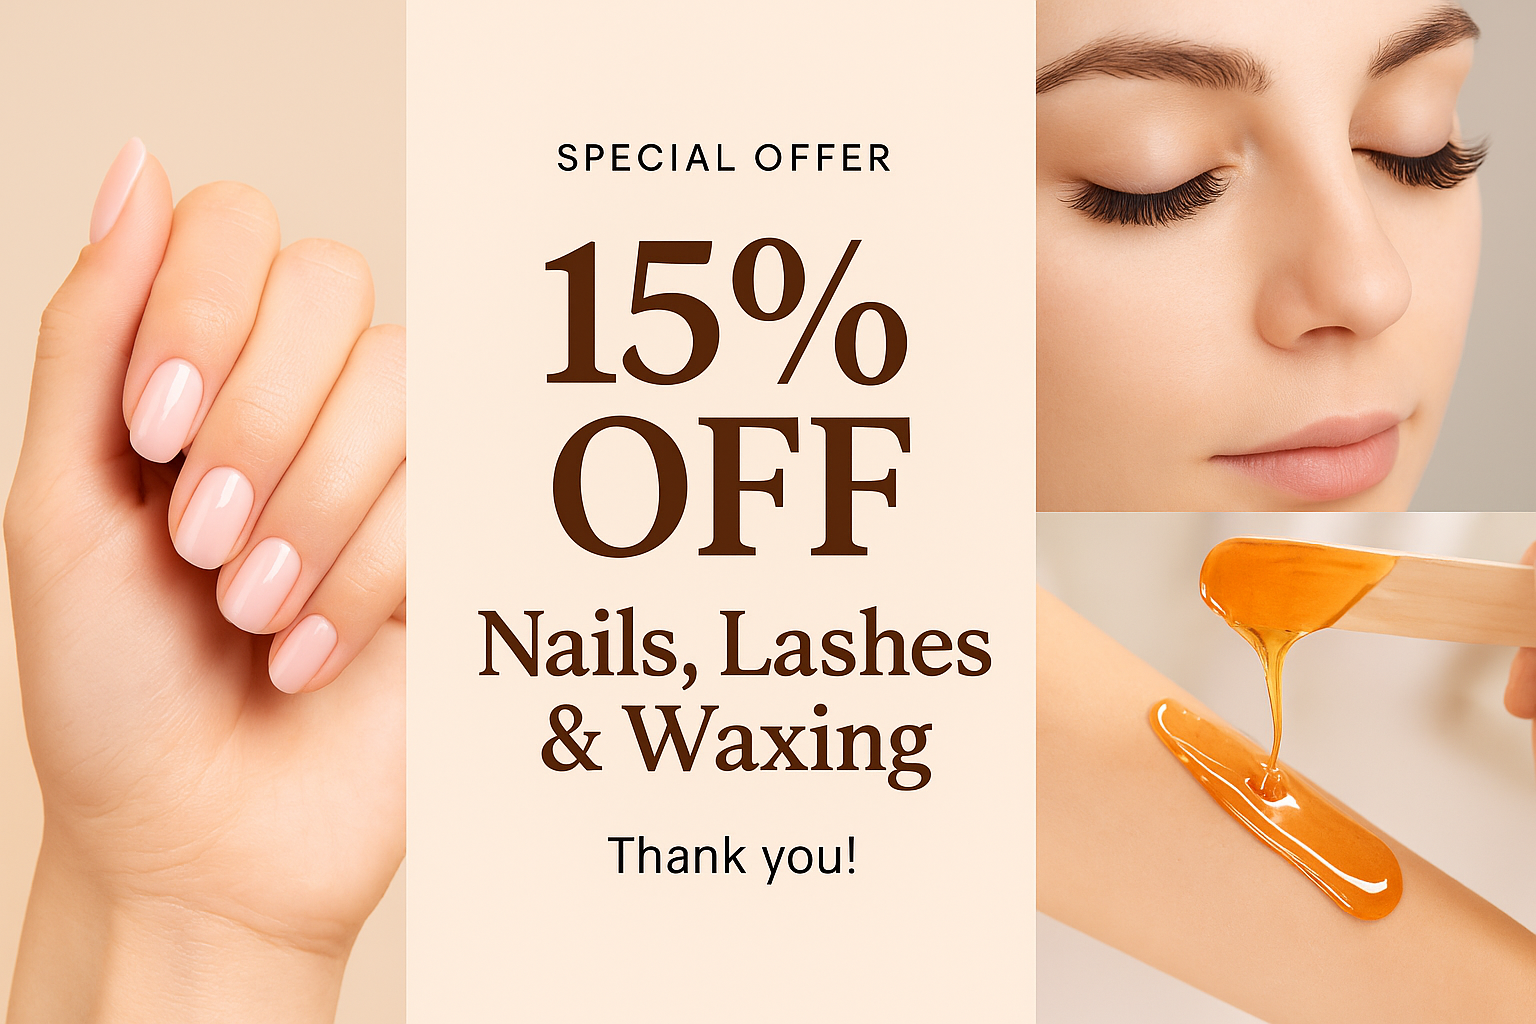
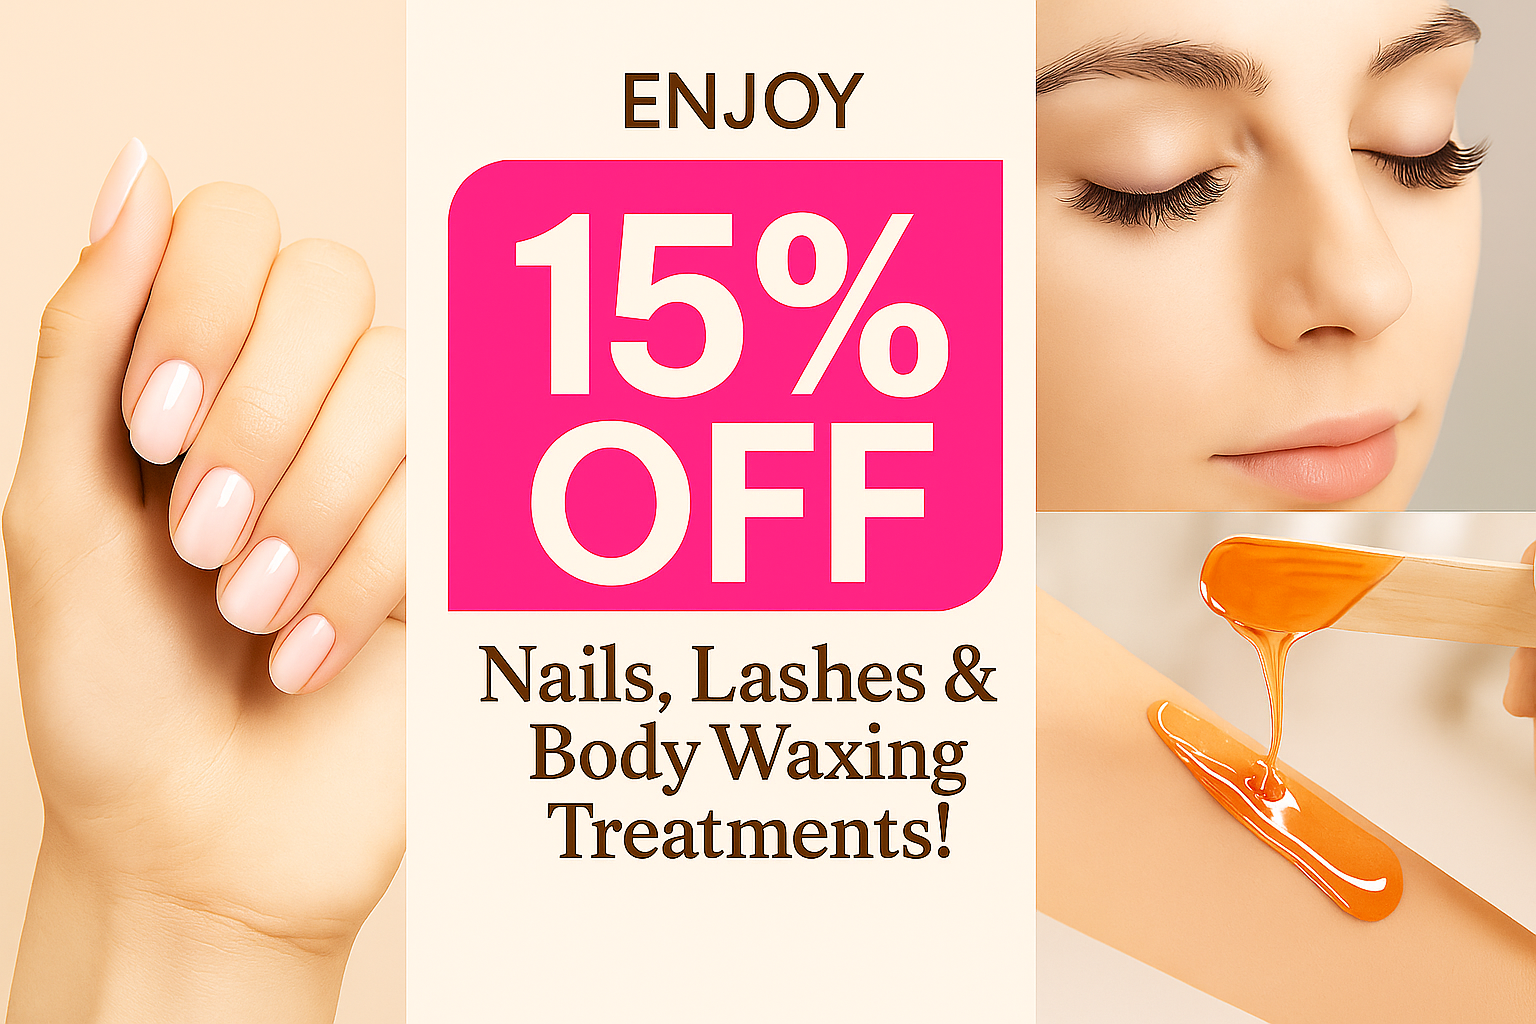
final01

diff --git a/index.html b/index.html
@@ -161,18 +161,26 @@
     </button>
 
     <!-- Offer Popup Modal -->
-<div class="modal fade" id="offerModal" tabindex="-1" aria-labelledby="offerModalLabel" aria-hidden="true">
-  <div class="modal-dialog modal-dialog-centered">
-    <div class="modal-content text-center p-4">
-      <div class="modal-body">
-        <h5 class="mb-3">Special Offer 🎉</h5>
-        <img src="assets/images/offer-popup.png" class="img-fluid" alt="">
-        <!-- <p class="mb-4">We’re offering <strong>15% off</strong> on nails, lashes, and waxing. <br>Thank you!</p> -->
-        <button type="button" class="btn btn-dark w-100" data-bs-dismiss="modal">ok got it</button>
-      </div>
-    </div>
-  </div>
-</div>
+        <div class="modal fade" id="offerModal" tabindex="-1" aria-labelledby="offerModalLabel" aria-hidden="true">
+          <div class="modal-dialog modal-dialog-centered">
+            <div class="modal-content text-center ">
+              <div class="modal-body">
+                <h5 class="mb-3">Special Offer 🎉</h5>
+                <img src="assets/images/offer-popup.png" class="img-fluid" alt="">
+
+                <!-- Scrolling text container -->
+                <div class="scrolling-banner mt-4">
+                  <p class="scroll-text">
+                    Enjoy 50% off on all nails, lashes and body waxing treatments! 
+                    Limited time only 💅✨
+                  </p>
+                </div>
+              </div>
+            </div>
+          </div>
+        </div>
+
+
 
 
         <!-- Banner section -->
@@ -727,7 +735,7 @@
               <li><a href="https://www.facebook.com/share/1Es5kmJ42a/"><i class="ph ph-facebook-logo"></i></a></li>
               <li><a href="https://www.instagram.com/bestlookbeautysalon?igsh=c3p1NjF4MHJmZ2tn"><i class="ph ph-instagram-logo"></i></a></li>
               <li><a href="https://www.tiktok.com/@bestlookbeautysalon?_t=ZN-8xV0dtl8i3S&_r=1"><i class="ph ph-tiktok-logo"></i></a></li>
-              <li><a href="#"><i class="ph ph-twitter-logo"></i></a></li>
+              
             </ul>
           </div>
         </div>

diff --git a/service15.html b/service15.html
@@ -153,6 +153,23 @@
                     </div>
                   </div>
 
+                   <!-- Consultation and Henna tattoo Patch Test -->
+                  <div class="accordion-item">
+                    <div class="accordion-header">
+                      <button class="accordion-button collapsed p-2" type="button" data-bs-toggle="collapse" data-bs-target="#collapseTwo" aria-expanded="false" aria-controls="collapseTwo">
+                        <div class="w-100 d-flex justify-content-between align-items-center">
+                          <p class="m-pricing pt-2 mb-2">Consultation and Henna Tattoo  Patch Test</p>
+                          <p class="m-pricing price-box pt-2 mb-2">£0.01</p>
+                        </div>
+                      </button>
+                    </div>
+                    <div id="collapseTwo" class="accordion-collapse collapse" data-bs-parent="#accordionExample">
+                      <div class="accordion-body">
+                        <a href="booknow.html" class="btn-pricing w-100">Book now</a>
+                      </div>
+                    </div>
+                  </div>
+
                   <!-- Consultation and Hi Definition Brows Patch Test -->
                   <div class="accordion-item">
                     <div class="accordion-header">
@@ -415,7 +432,7 @@
                     <li><a href="https://www.facebook.com/share/1Es5kmJ42a/"><i class="ph ph-facebook-logo"></i></a></li>
                     <li><a href="https://www.instagram.com/bestlookbeautysalon?igsh=c3p1NjF4MHJmZ2tn"><i class="ph ph-instagram-logo"></i></a></li>
                     <li><a href="https://www.tiktok.com/@bestlookbeautysalon?_t=ZN-8xV0dtl8i3S&_r=1"><i class="ph ph-tiktok-logo"></i></a></li>
-                    <li><a href="#"><i class="ph ph-twitter-logo"></i></a></li>
+                    
                     </ul>
                 </div>
                 </div>

diff --git a/service.html b/service.html
@@ -355,7 +355,7 @@
                                 <li><a href="https://www.facebook.com/share/1Es5kmJ42a/"><i class="ph ph-facebook-logo"></i></a></li>
                                 <li><a href="https://www.instagram.com/bestlookbeautysalon?igsh=c3p1NjF4MHJmZ2tn"><i class="ph ph-instagram-logo"></i></a></li>
                                 <li><a href="https://www.tiktok.com/@bestlookbeautysalon?_t=ZN-8xV0dtl8i3S&_r=1"><i class="ph ph-tiktok-logo"></i></a></li>
-                                <li><a href="#"><i class="ph ph-twitter-logo"></i></a></li>
+                                
                             </ul>
                         </div>
                     </div>

diff --git a/assets/css/style.css b/assets/css/style.css
@@ -14139,6 +14139,33 @@ input.error, textarea.error, .dropdown-toggle.error {
   font-weight: 400;
 }
 
+.scrolling-banner {
+  overflow: hidden;
+  white-space: nowrap;
+  
+  color: #c2185b; /* bold pink */
+  border-radius: 5px;
+  padding: 10px 0;
+  font-weight: bold;
+  position: relative;
+}
+
+.scroll-text {
+  display: inline-block;
+  padding-left: 100%;
+  animation: scroll-left 12s linear infinite;
+  font-size: 1rem;
+}
+
+@keyframes scroll-left {
+  0% {
+    transform: translateX(0%);
+  }
+  100% {
+    transform: translateX(-100%);
+  }
+}
+
 
 @media (max-width: 576px){
   .img-loyalty-card{

diff --git a/about.html b/about.html
@@ -211,7 +211,7 @@
                     <li><a href="https://www.facebook.com/share/1Es5kmJ42a/"><i class="ph ph-facebook-logo"></i></a></li>
                     <li><a href="https://www.instagram.com/bestlookbeautysalon?igsh=c3p1NjF4MHJmZ2tn"><i class="ph ph-instagram-logo"></i></a></li>
                     <li><a href="https://www.tiktok.com/@bestlookbeautysalon?_t=ZN-8xV0dtl8i3S&_r=1"><i class="ph ph-tiktok-logo"></i></a></li>
-                    <li><a href="#"><i class="ph ph-twitter-logo"></i></a></li>
+                    
                     </ul>
                 </div>
                 </div>

diff --git a/booknow.html b/booknow.html
@@ -422,7 +422,7 @@
                     <li><a href="https://www.facebook.com/share/1Es5kmJ42a/"><i class="ph ph-facebook-logo"></i></a></li>
                     <li><a href="https://www.instagram.com/bestlookbeautysalon?igsh=c3p1NjF4MHJmZ2tn"><i class="ph ph-instagram-logo"></i></a></li>
                     <li><a href="https://www.tiktok.com/@bestlookbeautysalon?_t=ZN-8xV0dtl8i3S&_r=1"><i class="ph ph-tiktok-logo"></i></a></li>
-                    <li><a href="#"><i class="ph ph-twitter-logo"></i></a></li>
+                    
                     </ul>
                 </div>
                 </div>

diff --git a/contact.html b/contact.html
@@ -223,7 +223,7 @@
                     <li><a href="https://www.facebook.com/share/1Es5kmJ42a/"><i class="ph ph-facebook-logo"></i></a></li>
                     <li><a href="https://www.instagram.com/bestlookbeautysalon?igsh=c3p1NjF4MHJmZ2tn"><i class="ph ph-instagram-logo"></i></a></li>
                     <li><a href="https://www.tiktok.com/@bestlookbeautysalon?_t=ZN-8xV0dtl8i3S&_r=1"><i class="ph ph-tiktok-logo"></i></a></li>
-                    <li><a href="#"><i class="ph ph-twitter-logo"></i></a></li>
+                    
                     </ul>
                 </div>
                 </div>

diff --git a/gallery.html b/gallery.html
@@ -204,7 +204,7 @@
                     <li><a href="https://www.facebook.com/share/1Es5kmJ42a/"><i class="ph ph-facebook-logo"></i></a></li>
                     <li><a href="https://www.instagram.com/bestlookbeautysalon?igsh=c3p1NjF4MHJmZ2tn"><i class="ph ph-instagram-logo"></i></a></li>
                     <li><a href="https://www.tiktok.com/@bestlookbeautysalon?_t=ZN-8xV0dtl8i3S&_r=1"><i class="ph ph-tiktok-logo"></i></a></li>
-                    <li><a href="#"><i class="ph ph-twitter-logo"></i></a></li>
+                    
                     </ul>
                 </div>
                 </div>

diff --git a/service1.html b/service1.html
@@ -383,7 +383,7 @@
                     <li><a href="https://www.facebook.com/share/1Es5kmJ42a/"><i class="ph ph-facebook-logo"></i></a></li>
                     <li><a href="https://www.instagram.com/bestlookbeautysalon?igsh=c3p1NjF4MHJmZ2tn"><i class="ph ph-instagram-logo"></i></a></li>
                     <li><a href="https://www.tiktok.com/@bestlookbeautysalon?_t=ZN-8xV0dtl8i3S&_r=1"><i class="ph ph-tiktok-logo"></i></a></li>
-                    <li><a href="#"><i class="ph ph-twitter-logo"></i></a></li>
+                    
                     </ul>
                 </div>
                 </div>

diff --git a/service10.html b/service10.html
@@ -467,7 +467,7 @@
                     <li><a href="https://www.facebook.com/share/1Es5kmJ42a/"><i class="ph ph-facebook-logo"></i></a></li>
                     <li><a href="https://www.instagram.com/bestlookbeautysalon?igsh=c3p1NjF4MHJmZ2tn"><i class="ph ph-instagram-logo"></i></a></li>
                     <li><a href="https://www.tiktok.com/@bestlookbeautysalon?_t=ZN-8xV0dtl8i3S&_r=1"><i class="ph ph-tiktok-logo"></i></a></li>
-                    <li><a href="#"><i class="ph ph-twitter-logo"></i></a></li>
+                    
                     </ul>
                 </div>
                 </div>

diff --git a/service11.html b/service11.html
@@ -622,7 +622,7 @@
                     <li><a href="https://www.facebook.com/share/1Es5kmJ42a/"><i class="ph ph-facebook-logo"></i></a></li>
                     <li><a href="https://www.instagram.com/bestlookbeautysalon?igsh=c3p1NjF4MHJmZ2tn"><i class="ph ph-instagram-logo"></i></a></li>
                     <li><a href="https://www.tiktok.com/@bestlookbeautysalon?_t=ZN-8xV0dtl8i3S&_r=1"><i class="ph ph-tiktok-logo"></i></a></li>
-                    <li><a href="#"><i class="ph ph-twitter-logo"></i></a></li>
+                    
                     </ul>
                 </div>
                 </div>

diff --git a/service12.html b/service12.html
@@ -874,7 +874,7 @@
                     <li><a href="https://www.facebook.com/share/1Es5kmJ42a/"><i class="ph ph-facebook-logo"></i></a></li>
                     <li><a href="https://www.instagram.com/bestlookbeautysalon?igsh=c3p1NjF4MHJmZ2tn"><i class="ph ph-instagram-logo"></i></a></li>
                     <li><a href="https://www.tiktok.com/@bestlookbeautysalon?_t=ZN-8xV0dtl8i3S&_r=1"><i class="ph ph-tiktok-logo"></i></a></li>
-                    <li><a href="#"><i class="ph ph-twitter-logo"></i></a></li>
+                    
                     </ul>
                 </div>
                 </div>
